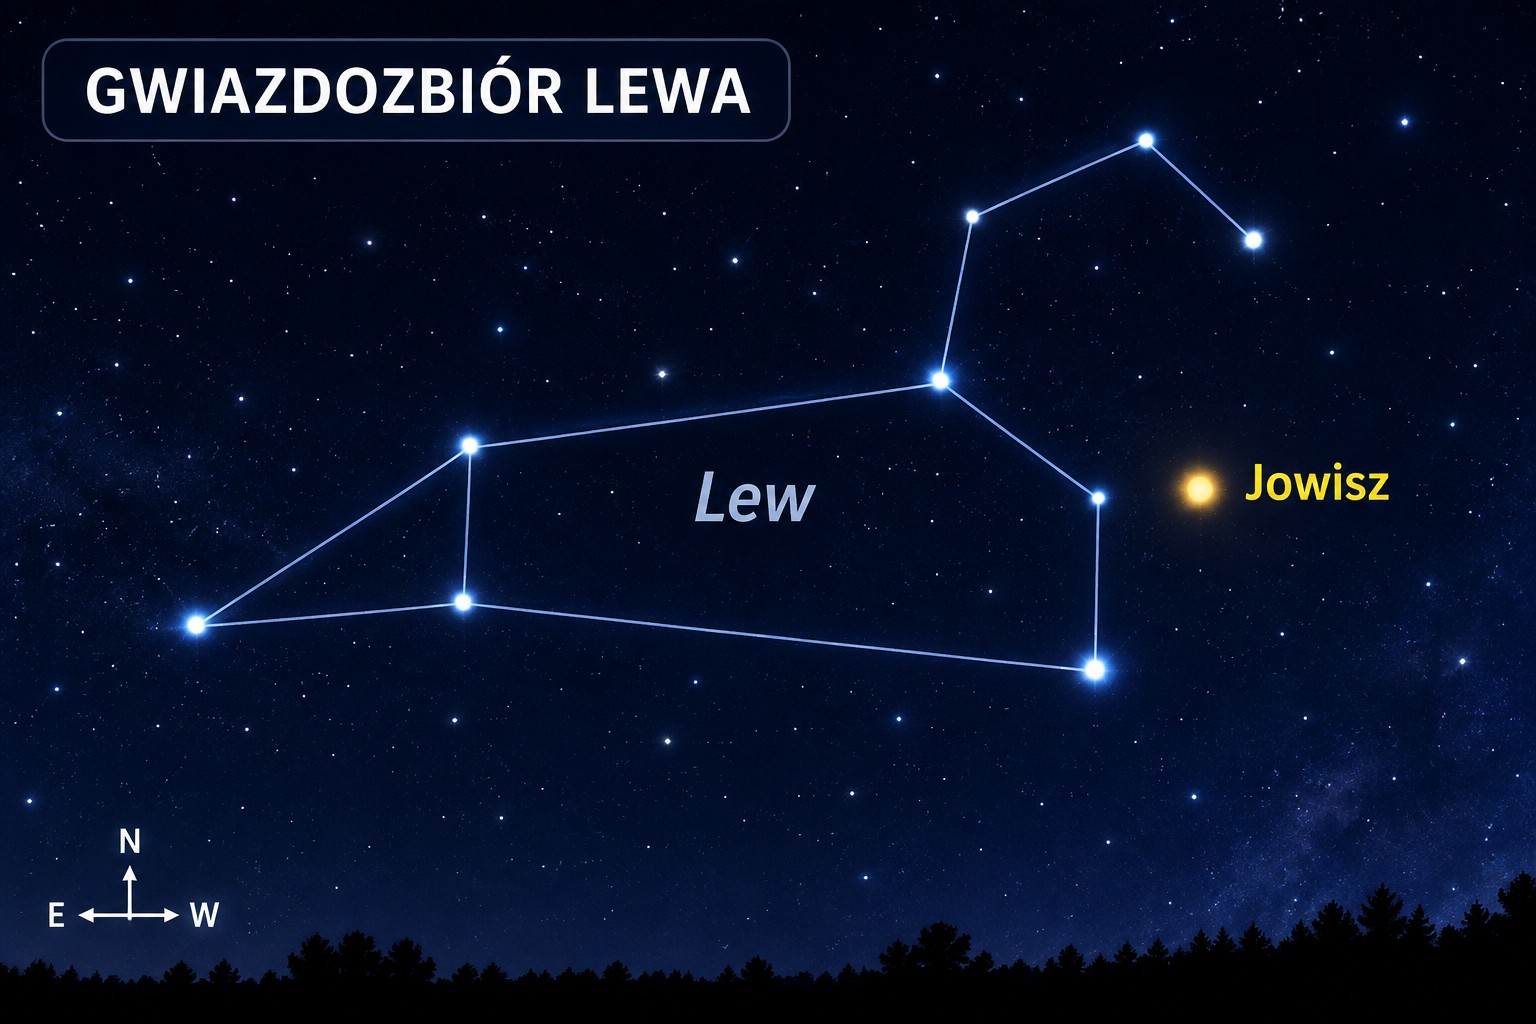
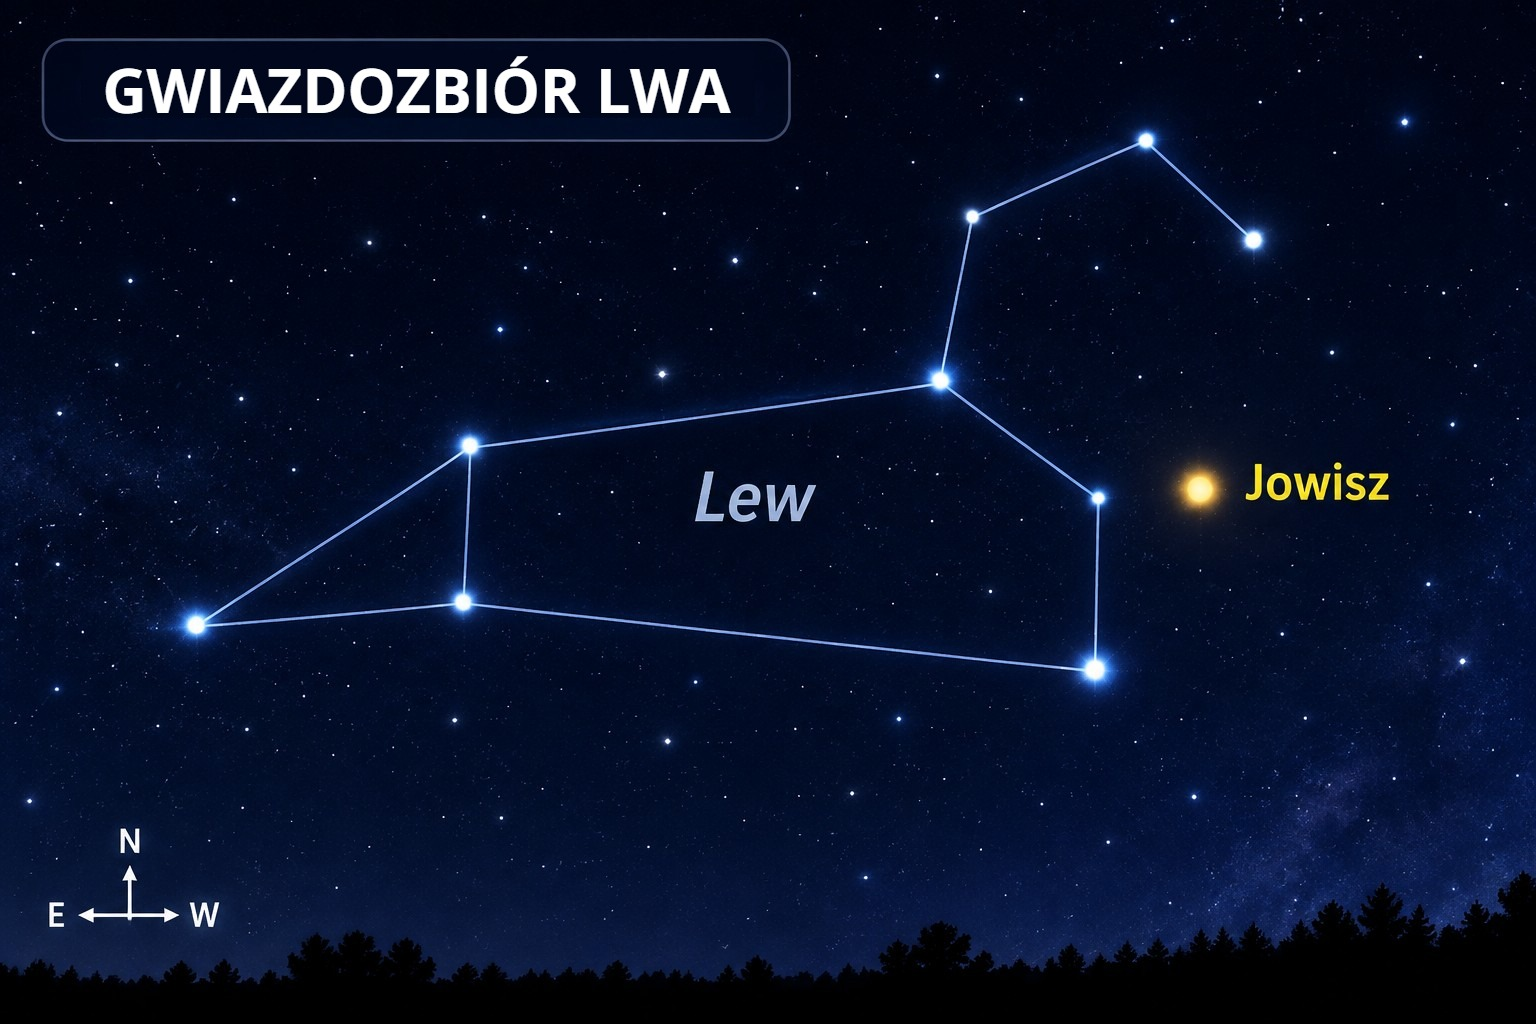
Jowisz: poprawka napisu na ilustracji, okładka tylko na karcie

Changed region(s): [[0.0312, 0.0312, 0.5, 0.125]]

diff --git a/_layouts/post.html b/_layouts/post.html
@@ -8,7 +8,7 @@ layout: default
     <p class="data">{% include data-pl.html data=page.date %}</p>
   </header>
 
-  {%- if page.okladka %}
+  {%- if page.okladka and page.okladka_w_artykule != false %}
   <figure class="artykul-okladka">
     <img src="{{ folder }}{{ page.okladka }}" alt="{{ page.title | escape }}">
     {%- if page.okladka_podpis %}

diff --git a/JAK-DODAC-ARTYKUL.md b/JAK-DODAC-ARTYKUL.md
@@ -41,6 +41,7 @@ Tekst **pogrubiony**, *pochylony*, a tu [link](https://www.nasa.gov).
 | `title:` | Tytuł artykułu, w cudzysłowie. |
 | `okladka:` | Nazwa pliku ze zdjęciem tytułowym. Bez tej linii pokaże się ikonka 🔭. |
 | `okladka_podpis:` | Opcjonalny. Podpis pod zdjęciem tytułowym, np. autor i licencja zdjęcia z internetu. |
+| `okladka_w_artykule: false` | Opcjonalny. Okładka pokaże się tylko na karcie na stronie głównej, a nie na górze artykułu. Przydaje się, gdy to samo zdjęcie jest też w tekście. |
 | `opis:` | Opcjonalny. Własna zapowiedź na stronie głównej, gdy pierwszy akapit się nie nadaje. |
 | `## Tekst` | Śródtytuł. |
 | `- coś` | Punkt na liście. |

diff --git a/_posts/2026-11-11-jowisz-na-niebie.md b/_posts/2026-11-11-jowisz-na-niebie.md
@@ -1,6 +1,7 @@
 ---
 title: "Jowisz coraz bliżej! Kiedy zobaczę go przez teleskop?"
 okladka: okladka.jpg
+okladka_w_artykule: false
 date: 2026-11-11 20:00:00 +0100
 ---
 
